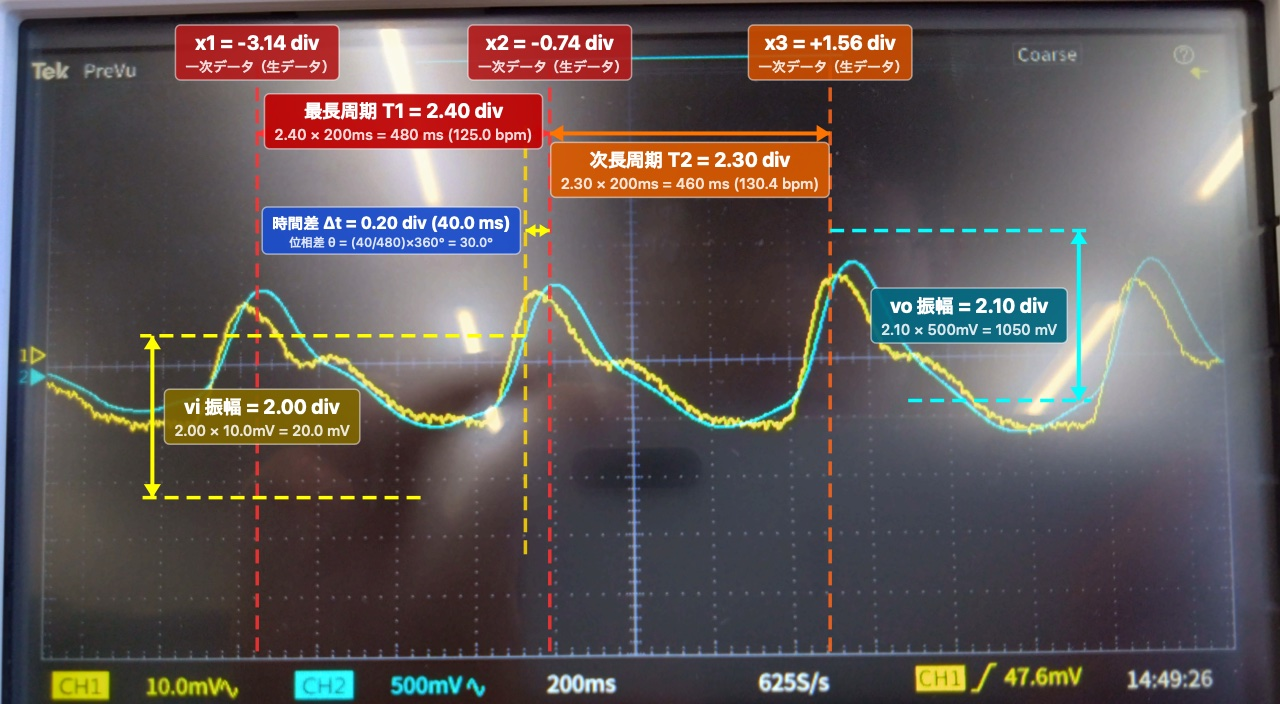
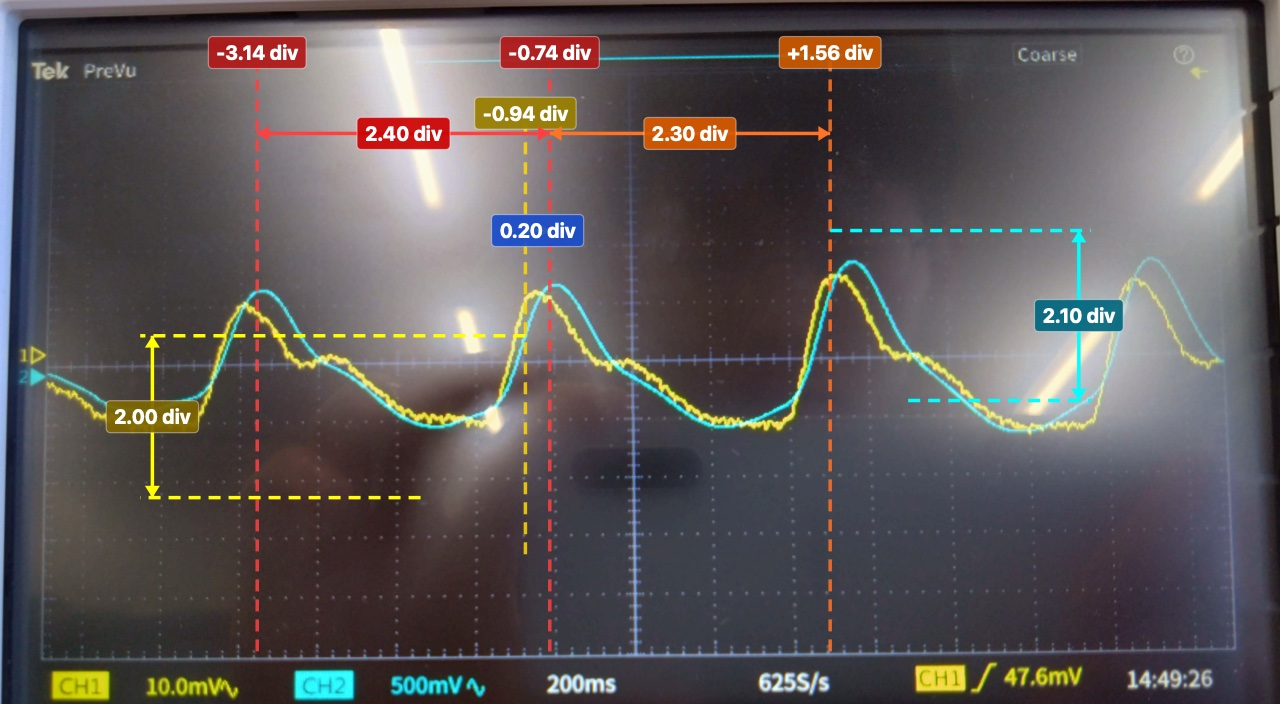
refactor(report): 回路.xbbをfig_work_A直下に移動し、アノテーションを点線・幅線・div値のみに純化
- main.texに\graphicspath{{fig_work_A/}{fig_work_A/raw/}}を設定し、回路.xbbをrawの外(fig_work_A直下)へ移動
- 01_work_A.texの回路画像参照を\includegraphics{回路.JPG}に更新
- 全てのオシロスコープ波形アノテーション画像(脈拍、緑、赤、青、紫)から二次算出値(ms, mV, bpm等)や解説テキストを全撤去
- 画像上には純粋にカーソル点線、幅線(寸法線)、および目盛り読み取りのdiv値のみを明記し、一次値とそれ以外を厳密に分離

diff --git a/report/01_work_A.tex b/report/01_work_A.tex
@@ -255,7 +255,7 @@
 
 \begin{figure}[htbp]
   \centering
-  \includegraphics[width=0.7\textwidth,clip]{fig_work_A/raw/回路.JPG}
+  \includegraphics[width=0.7\textwidth,clip]{回路.JPG}
   \caption{実装したセンサ回路および増幅回路の外観}
   \label{fig:circuit_implementation}
 \end{figure}

diff --git a/report/main.tex b/report/main.tex
@@ -8,6 +8,7 @@
 \setlength{\topmargin}{-1.0cm}
 
 \usepackage{graphicx}
+\graphicspath{{fig_work_A/}{fig_work_A/raw/}}
 \usepackage{xcolor}
 \usepackage[cmex10]{amsmath}
 \usepackage[deluxe]{otf}
